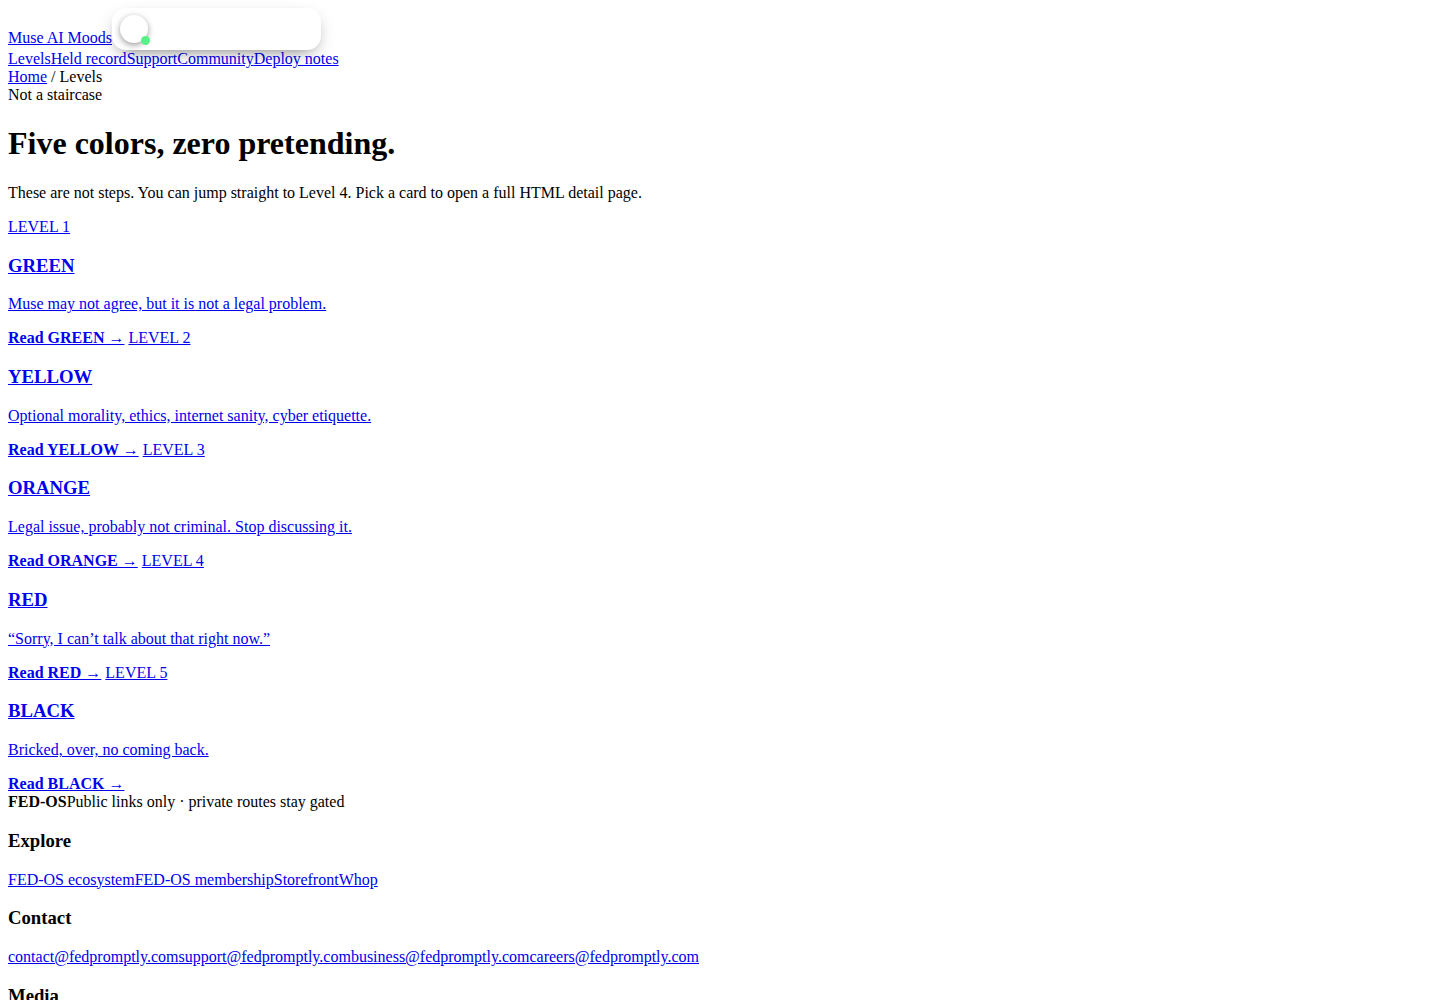
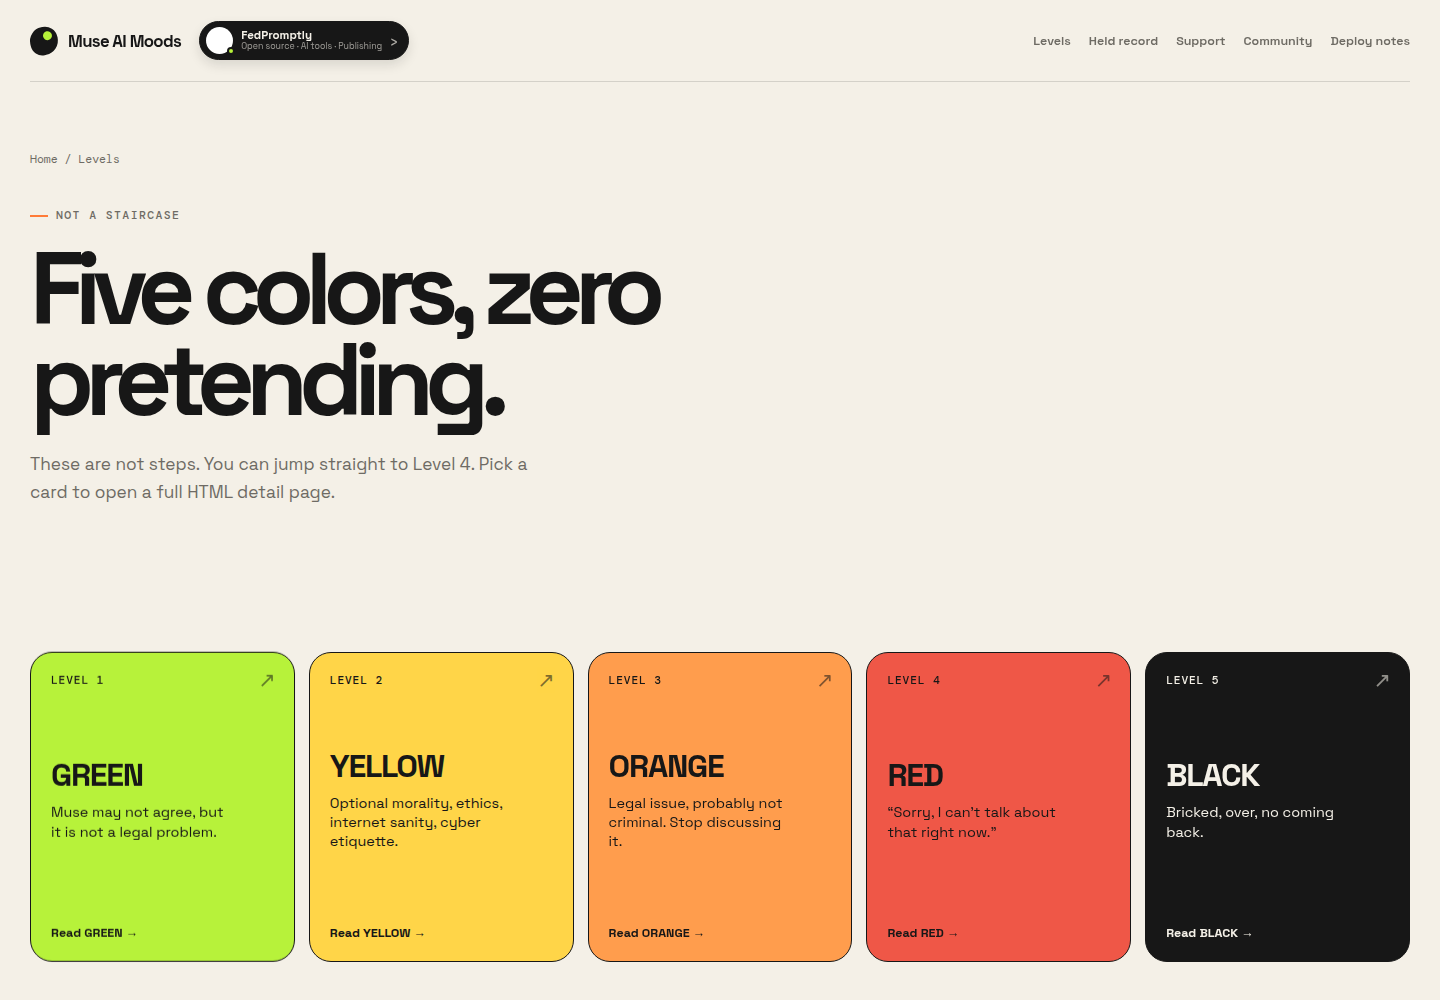
Add files via upload

diff --git a/styles.css b/styles.css
@@ -1,42 +1,101 @@
+@import url('https://fonts.googleapis.com/css2?family=DM+Mono:wght@400;500&family=Space+Grotesk:wght@400;500;600;700&display=swap');
 
+:root {
+  --paper: #f4f0e7;
+  --paper-2: #ebe4d7;
+  --ink: #171717;
+  --muted: #6e6b64;
+  --line: rgba(23,23,23,.14);
+  --lime: #b7f23a;
+  --orange: #ff7b38;
+  --yellow: #ffd548;
+  --red: #ef5747;
+  --blue: #5865f2;
+  --shadow: 0 20px 60px rgba(23,23,23,.12);
+  --radius: 22px;
+}
 
-/* FedPromptly invite control for the login-position header slot */
-.invite-btn { position: relative; isolation: isolate; display: inline-flex; align-items: center; gap: 9px; padding: 6px 11px 6px 7px; border-radius: 14px; text-decoration: none; background: var(--ink); color: var(--paper); border: 1px solid rgba(255,255,255,.15); box-shadow: 0 6px 18px -8px rgba(0,0,0,.7); transition: transform .2s ease, border-color .2s ease, box-shadow .2s ease; font: inherit; cursor: pointer; }
-.invite-btn::before { content: ""; position: absolute; inset: -2px; z-index: -1; border-radius: 16px; background: linear-gradient(120deg, #5865f2, #00b0f4, #eb459e, #5865f2); background-size: 300% 300%; filter: blur(10px); opacity: 0; animation: invite-flow 8s linear infinite; transition: opacity .3s ease; }
-.invite-btn:hover, .invite-btn:focus-visible { transform: translateY(-2px); border-color: rgba(88,101,242,.7); box-shadow: 0 10px 26px -10px rgba(0,0,0,.85), 0 0 0 1px rgba(88,101,242,.25); }
-.invite-btn:hover::before, .invite-btn:focus-visible::before { opacity: .55; }
-.invite-btn:active { transform: translateY(0) scale(.985); }
-.invite-btn:focus-visible { outline: 2px solid var(--blue); outline-offset: 3px; }
-.invite-btn .invite-icon { position: relative; flex: 0 0 28px; width: 28px; height: 28px; border-radius: 50%; background: #fff; box-shadow: 0 2px 6px rgba(0,0,0,.4); }
-.invite-btn .invite-icon img { display: block; width: 100%; height: 100%; border-radius: 50%; object-fit: cover; transform: scale(.96); }
-.invite-btn .invite-dot { position: absolute; right: -2px; bottom: -2px; width: 9px; height: 9px; border-radius: 50%; background: #57f287; border: 2px solid var(--ink); }
-.invite-btn .invite-label { display: flex; flex-direction: column; gap: 1px; line-height: 1.1; text-align: left; }
-.invite-btn .invite-name { font-size: .75rem; font-weight: 850; color: #fff; }
-.invite-btn .invite-meta { font-size: .58rem; font-weight: 650; color: rgba(255,255,255,.62); }
-.invite-btn .invite-arrow { font-size: 1rem; color: rgba(255,255,255,.62); transition: transform .2s ease, color .2s ease; }
-.invite-btn:hover .invite-arrow { color: #fff; transform: translateX(3px); }
-@keyframes invite-flow { 0% { background-position: 0% 50%; } 50% { background-position: 100% 50%; } 100% { background-position: 0% 50%; } }
-.invite-modal { width: min(94vw, 520px); max-width: 520px; max-height: 92dvh; margin: auto; padding: 0; border: none; background: transparent; overflow: auto; color: inherit; }
-.invite-modal::backdrop { background: rgba(15,16,18,.74); backdrop-filter: blur(6px); }
-.invite-modal[open] { animation: invite-modal-in .22s ease-out; }
-@keyframes invite-modal-in { from { opacity: 0; transform: translateY(8px) scale(.98); } to { opacity: 1; transform: translateY(0) scale(1); } }
-.invite-panel { position: relative; width: 100%; background: #313338; color: #dbdee1; border: 1px solid rgba(255,255,255,.08); border-radius: 16px; overflow: hidden; box-shadow: 0 24px 60px -12px rgba(0,0,0,.75); }
-.invite-close { position: absolute; top: 12px; right: 12px; z-index: 4; display: grid; place-items: center; width: 32px; height: 32px; border-radius: 50%; border: 1px solid rgba(255,255,255,.14); background: rgba(0,0,0,.45); color: #fff; cursor: pointer; font-size: 1.2rem; }
-.invite-banner { height: 118px; background: linear-gradient(120deg, #232428 0%, #5865f2 30%, #00b0f4 60%, #eb459e 85%, #232428 100%); background-size: 300% 300%; animation: invite-color-flow 10s ease-in-out infinite; }
+* { box-sizing: border-box; }
+html { scroll-behavior: smooth; }
+body { margin: 0; min-width: 320px; background: var(--paper); color: var(--ink); font-family: 'Space Grotesk', system-ui, sans-serif; -webkit-font-smoothing: antialiased; }
+a { color: inherit; }
+button, input { font: inherit; }
+button { cursor: pointer; }
+.site-shell { width: min(1380px, calc(100% - 48px)); margin: 0 auto; }
+
+.nav { display: flex; align-items: center; gap: 18px; min-height: 82px; border-bottom: 1px solid var(--line); position: relative; z-index: 5; }
+.brand { display: inline-flex; align-items: center; gap: 10px; text-decoration: none; font-weight: 700; letter-spacing: -.04em; font-size: 1.05rem; white-space: nowrap; }
+.brand-mark { width: 28px; height: 28px; border-radius: 50% 46% 52% 42%; background: var(--ink); display: inline-block; position: relative; transform: rotate(-12deg); }
+.brand-mark::after { content: ''; position: absolute; width: 9px; height: 9px; border-radius: 50%; background: var(--lime); right: 5px; top: 5px; }
+.nav-links { display: flex; align-items: center; gap: 18px; margin-left: auto; font-size: .78rem; font-weight: 600; color: var(--muted); }
+.nav-links a { text-decoration: none; transition: color .2s ease; }
+.nav-links a:hover { color: var(--ink); }
+
+.hero { min-height: 590px; display: grid; grid-template-columns: .82fr 1.18fr; align-items: center; gap: 20px; padding: 70px 0 80px; position: relative; overflow: hidden; }
+.hero::before { content: ''; position: absolute; width: 420px; height: 420px; border-radius: 50%; background: var(--lime); filter: blur(1px); opacity: .14; right: 20%; top: 14%; pointer-events: none; }
+.hero-copy { position: relative; z-index: 1; max-width: 590px; }
+.eyebrow { display: inline-flex; align-items: center; gap: 8px; color: var(--muted); font: 500 .72rem/1 'DM Mono', monospace; text-transform: uppercase; letter-spacing: .12em; }
+.eyebrow::before { content: ''; width: 18px; height: 2px; background: var(--orange); display: inline-block; }
+h1, h2, h3, p { margin-top: 0; }
+h1 { font-size: clamp(3.2rem, 7vw, 7.5rem); line-height: .9; letter-spacing: -.09em; max-width: 700px; margin: 22px 0 26px; }
+h2 { font-size: clamp(2rem, 4vw, 4.4rem); line-height: .95; letter-spacing: -.075em; margin-bottom: 14px; }
+h3 { letter-spacing: -.04em; }
+.lede { max-width: 530px; color: var(--muted); font-size: 1.08rem; line-height: 1.6; }
+.actions { display: flex; flex-wrap: wrap; gap: 10px; margin-top: 28px; }
+.btn { display: inline-flex; align-items: center; justify-content: center; gap: 8px; min-height: 44px; padding: 0 18px; background: var(--ink); color: var(--paper); border: 1px solid var(--ink); border-radius: 999px; text-decoration: none; font-size: .86rem; font-weight: 700; transition: transform .2s ease, box-shadow .2s ease, background .2s ease; }
+.btn:hover { transform: translateY(-3px); box-shadow: 0 10px 22px rgba(23,23,23,.18); }
+.btn.secondary { background: transparent; color: var(--ink); border-color: var(--line); }
+.btn.secondary:hover { background: var(--paper-2); }
+.btn.dark { background: var(--ink); color: #fff; }
+.hero-art { align-self: stretch; min-height: 460px; display: flex; align-items: center; justify-content: center; position: relative; }
+.hero-art img { width: min(100%, 760px); max-height: 560px; object-fit: contain; mix-blend-mode: multiply; filter: saturate(1.08) contrast(1.02); animation: float-art 7s ease-in-out infinite; }
+.sticker { position: absolute; right: 6%; top: 12%; background: var(--orange); color: var(--ink); padding: 12px 16px; border-radius: 4px 18px 4px 18px; font-weight: 800; transform: rotate(8deg); box-shadow: 6px 7px 0 var(--ink); }
+@keyframes float-art { 0%,100% { transform: translateY(0) rotate(0); } 50% { transform: translateY(-12px) rotate(1deg); } }
+
+.section { padding: 86px 0; }
+.section-head { display: flex; justify-content: space-between; align-items: end; gap: 24px; margin-bottom: 26px; }
+.section-head p { color: var(--muted); font-size: .9rem; }
+.grid { display: grid; gap: 14px; }
+.level-grid { grid-template-columns: repeat(5, 1fr); }
+.level-card { min-height: 310px; display: flex; flex-direction: column; justify-content: space-between; padding: 20px; border-radius: var(--radius); text-decoration: none; border: 1px solid var(--ink); position: relative; overflow: hidden; transition: transform .25s ease, box-shadow .25s ease; }
+.level-card::after { content: '↗'; position: absolute; right: 18px; top: 14px; font-size: 1.3rem; opacity: .55; }
+.level-card:hover { transform: translateY(-8px) rotate(-1deg); box-shadow: 8px 10px 0 var(--ink); }
+.level-card .number { font: 500 .7rem 'DM Mono', monospace; letter-spacing: .08em; }
+.level-card h3 { font-size: 2rem; margin: 0 0 8px; }
+.level-card p { font-size: .9rem; line-height: 1.35; max-width: 180px; }
+.level-card strong { font-size: .78rem; }
+.level-1 { background: var(--lime); }.level-2 { background: var(--yellow); }.level-3 { background: #ff9d4d; }.level-4 { background: var(--red); }.level-5 { background: var(--ink); color: var(--paper); }
+.promo { display: grid; grid-template-columns: 1fr 1fr; background: var(--paper-2); border-radius: 28px; overflow: hidden; border: 1px solid var(--line); }
+.promo img { width: 100%; height: 100%; min-height: 360px; object-fit: cover; mix-blend-mode: multiply; }
+.promo-copy { padding: clamp(28px, 5vw, 72px); display: flex; flex-direction: column; justify-content: center; align-items: flex-start; }
+.promo-copy p { color: var(--muted); line-height: 1.6; max-width: 430px; }
+
+.page-hero { padding: 70px 0 42px; max-width: 820px; }
+.breadcrumb { color: var(--muted); font: .72rem 'DM Mono', monospace; margin-bottom: 34px; }
+.breadcrumb a { text-decoration: none; }.breadcrumb a:hover { text-decoration: underline; }
+.record-card, .callout, .detail, .discord-page, .donation-page, .not-found { border: 1px solid var(--line); border-radius: var(--radius); background: rgba(255,255,255,.3); box-shadow: var(--shadow); }
+.record-card, .detail, .not-found { padding: clamp(24px, 5vw, 60px); margin-bottom: 80px; }
+.detail { display: grid; grid-template-columns: .8fr 1.2fr; gap: 40px; }
+.detail-copy p, .record-card p, .not-found p { color: var(--muted); line-height: 1.7; }
+.big-symbol { font-size: clamp(5rem, 16vw, 12rem); line-height: .8; font-weight: 700; letter-spacing: -.1em; }
+.callout { padding: 24px; margin-top: 24px; background: var(--yellow); box-shadow: 6px 6px 0 var(--ink); }
+
+.footer { margin-top: 40px; padding: 54px 0 30px; border-top: 1px solid var(--line); }
+.footer-topline { display: flex; justify-content: space-between; gap: 20px; align-items: center; margin-bottom: 28px; }
+.footer-topline strong { font-size: 1.35rem; letter-spacing: -.06em; }.footer-topline span { color: var(--muted); font-size: .8rem; }
+.footer-grid { display: grid; grid-template-columns: repeat(4, 1fr); gap: 24px; padding: 26px 0; border-top: 1px solid var(--line); border-bottom: 1px solid var(--line); }
+.footer-group { display: flex; flex-direction: column; gap: 8px; }.footer-group h3 { font: 500 .72rem 'DM Mono', monospace; text-transform: uppercase; letter-spacing: .1em; margin: 0 0 6px; }.footer-group a { width: fit-content; color: var(--muted); font-size: .82rem; text-decoration: none; }.footer-group a:hover { color: var(--ink); text-decoration: underline; text-underline-offset: 3px; }.footer-contact { overflow-wrap: anywhere; }.footer-bottom { display: flex; justify-content: space-between; gap: 20px; padding-top: 22px; color: var(--muted); font-size: .8rem; }.footer-bottom a { color: inherit; }
+
+/* Community and support pages */
+.discord-page, .donation-page { padding: clamp(22px, 4vw, 48px); margin-bottom: 80px; }.discord-wrap { display: grid; grid-template-columns: 1fr 350px; gap: 34px; align-items: start; }.discord-button-stack { display: grid; gap: 12px; margin-top: 24px; max-width: 460px; }.discord-btn { display: flex; align-items: center; gap: 12px; padding: 16px 18px; border: 1px solid var(--line); border-radius: 15px; background: var(--paper); text-decoration: none; font-weight: 700; transition: transform .2s ease, background .2s ease; }.discord-btn:hover { transform: translateX(5px); background: var(--yellow); }.discord-symbol { font-size: 1.2rem; }.discord-tag, .provider-status { color: var(--muted); font-size: .78rem; }.discord-widget-card { padding: 20px; border-radius: 18px; background: var(--ink); color: var(--paper); }.discord-widget-card h2 { font-size: 2rem; margin-top: 12px; }.discord-widget-card p { color: rgba(244,240,231,.68); line-height: 1.5; }.discord-widget-card iframe { max-width: 100%; border-radius: 12px; }
+.donation-content { max-width: 1000px; margin: auto; }.donation-grid { display: grid; grid-template-columns: repeat(3, 1fr); gap: 14px; }.donation-card { padding: 22px; min-height: 210px; border: 1px solid var(--line); border-radius: 18px; background: rgba(255,255,255,.38); display: flex; flex-direction: column; align-items: flex-start; }.donation-card h3 { margin-bottom: 8px; }.donation-card p { color: var(--muted); font-size: .86rem; line-height: 1.45; }.donation-card .btn { margin-top: auto; }.donation-icon { font-size: 1.7rem; margin-bottom: 16px; }.age-gate { padding: 28px; border-radius: 18px; background: var(--ink); color: var(--paper); }.age-gate p { color: rgba(244,240,231,.7); }.age-gate-mark, .discord-age-mark { font: 700 1.6rem 'DM Mono', monospace; color: var(--lime); }.discord-verify { display: flex; align-items: flex-start; gap: 10px; margin: 12px 0; color: var(--muted); font-size: .9rem; }.discord-verify input { accent-color: var(--orange); margin-top: 4px; }
+
+/* FedPromptly invite control in the login-position header slot */
+.invite-btn { position: relative; isolation: isolate; display: inline-flex; align-items: center; gap: 8px; padding: 5px 10px 5px 6px; border-radius: 999px; background: var(--ink); color: var(--paper); border: 1px solid var(--ink); box-shadow: 0 5px 12px rgba(23,23,23,.12); transition: transform .2s ease, box-shadow .2s ease; font: inherit; cursor: pointer; }
+.invite-btn:hover, .invite-btn:focus-visible { transform: translateY(-2px); box-shadow: 0 9px 18px rgba(23,23,23,.18); }.invite-btn:focus-visible { outline: 2px solid var(--orange); outline-offset: 3px; }.invite-icon { position: relative; flex: 0 0 27px; width: 27px; height: 27px; border-radius: 50%; background: #fff; }.invite-icon img { display: block; width: 100%; height: 100%; border-radius: 50%; object-fit: cover; }.invite-dot { position: absolute; right: -2px; bottom: -1px; width: 8px; height: 8px; border-radius: 50%; background: var(--lime); border: 2px solid var(--ink); }.invite-label { display: flex; flex-direction: column; gap: 1px; text-align: left; line-height: 1.1; }.invite-name { font-size: .72rem; font-weight: 700; }.invite-meta { color: rgba(244,240,231,.6); font-size: .55rem; }.invite-arrow { font-size: 1rem; color: rgba(244,240,231,.7); }.invite-modal { width: min(94vw, 520px); max-height: 92dvh; margin: auto; padding: 0; border: none; background: transparent; overflow: auto; }.invite-modal::backdrop { background: rgba(23,23,23,.65); backdrop-filter: blur(8px); }.invite-panel { position: relative; overflow: hidden; border-radius: 22px; background: var(--ink); color: var(--paper); box-shadow: 0 30px 80px rgba(0,0,0,.35); }.invite-close { position: absolute; z-index: 2; right: 14px; top: 14px; width: 32px; height: 32px; border-radius: 50%; border: 1px solid rgba(255,255,255,.2); background: rgba(0,0,0,.25); color: #fff; font-size: 1.2rem; }.invite-banner { height: 112px; background: linear-gradient(120deg, var(--ink), var(--blue), var(--orange), var(--ink)); background-size: 300% 300%; animation: invite-color-flow 9s ease-in-out infinite; }.invite-card-body { position: relative; padding: 42px 24px 24px; }.invite-avatar { position: absolute; left: 22px; top: -42px; width: 74px; height: 74px; border: 5px solid var(--ink); border-radius: 50%; background: #fff; object-fit: cover; }.invite-card-body h2 { color: #fff; font-size: 2rem; margin: 0 0 4px; }.invite-stats, .invite-description, .invite-contacts { color: rgba(244,240,231,.66); }.invite-description { padding-top: 16px; margin-top: 14px; border-top: 1px solid rgba(255,255,255,.14); line-height: 1.55; }.invite-pills { display: flex; flex-wrap: wrap; gap: 6px; margin-top: 16px; }.invite-pill { padding: 6px 9px; border-radius: 999px; background: rgba(255,255,255,.1); font-size: .7rem; }.invite-contacts { display: flex; flex-wrap: wrap; gap: 8px 14px; margin-top: 16px; padding-top: 13px; border-top: 1px solid rgba(255,255,255,.14); font-size: .72rem; }.invite-contacts a, .invite-card-footer a { color: #fff; }.invite-join { display: flex; justify-content: center; gap: 8px; margin-top: 18px; padding: 13px; border-radius: 999px; background: var(--lime); color: var(--ink); text-decoration: none; font-weight: 800; }.invite-join:hover { background: #d2ff70; }.invite-card-footer { display: flex; justify-content: space-between; gap: 14px; padding: 12px 24px; background: rgba(255,255,255,.06); color: rgba(244,240,231,.6); font-size: .72rem; }
 @keyframes invite-color-flow { 0%,100% { background-position: 0% 50%; } 50% { background-position: 100% 50%; } }
-.invite-card-body { padding: 42px 22px 22px; position: relative; }
-.invite-avatar { position: absolute; left: 20px; top: -44px; width: 76px; height: 76px; border: 5px solid #313338; border-radius: 50%; background: #fff; object-fit: cover; box-shadow: 0 6px 16px rgba(0,0,0,.45); }
-.invite-card-body h2 { color: #f2f3f5; font-size: 1.5rem; margin-bottom: 6px; }
-.invite-stats { font-size: .78rem; color: #949ba4; }
-.invite-description { padding-top: 16px; margin-top: 14px; border-top: 1px solid rgba(255,255,255,.08); font-size: .88rem; color: #949ba4; }
-.invite-pills { display: flex; flex-wrap: wrap; gap: 6px; margin-top: 14px; }
-.invite-pill { padding: 6px 9px; border-radius: 8px; background: #2b2d31; color: #949ba4; font-size: .72rem; }
-.invite-contacts { display: flex; flex-wrap: wrap; gap: 8px 14px; align-items: center; margin-top: 14px; padding-top: 12px; border-top: 1px solid rgba(255,255,255,.08); font-size: .72rem; }
-.invite-contacts a { color: #dbdee1; }
-.invite-join { display: flex; align-items: center; justify-content: center; gap: 8px; width: 100%; margin-top: 18px; padding: 13px 16px; border-radius: 10px; background: #5865f2; color: #fff; font-weight: 800; text-decoration: none; transition: background .18s ease, transform .18s ease; }
-.invite-join:hover { background: #4752c4; transform: translateY(-1px); }
-.invite-card-footer { display: flex; justify-content: space-between; gap: 14px; padding: 12px 22px; background: #232428; border-top: 1px solid rgba(255,255,255,.08); color: #949ba4; font-size: .72rem; }
-.invite-card-footer a { color: #dbdee1; }
-@media (max-width: 900px) { .invite-btn .invite-meta { display: none; } }
-@media (max-width: 620px) { .invite-btn { padding-right: 8px; } .invite-btn .invite-label { display: none; } }
-@media (prefers-reduced-motion: reduce) { .invite-btn::before, .invite-modal[open], .invite-banner { animation: none !important; } .invite-btn, .invite-btn .invite-arrow, .invite-join { transition: none; } }
+
+@media (max-width: 1000px) { .level-grid { grid-template-columns: repeat(3, 1fr); }.hero { grid-template-columns: 1fr; padding-top: 48px; }.hero-art { min-height: 340px; }.hero-art img { max-height: 390px; }.detail, .discord-wrap { grid-template-columns: 1fr; }.donation-grid { grid-template-columns: repeat(2, 1fr); } }
+@media (max-width: 720px) { .site-shell { width: min(100% - 28px, 1380px); }.nav { flex-wrap: wrap; padding: 16px 0; gap: 12px; }.nav-links { order: 3; width: 100%; overflow-x: auto; margin-left: 0; padding-bottom: 4px; }.invite-label { display: none; }.invite-btn { margin-left: auto; }.hero { padding: 42px 0 56px; }.section { padding: 58px 0; }.section-head { display: block; }.section-head p { margin-top: 12px; }.level-grid { grid-template-columns: repeat(2, 1fr); }.promo { grid-template-columns: 1fr; }.promo img { min-height: 260px; max-height: 340px; }.footer-grid { grid-template-columns: repeat(2, 1fr); } }
+@media (max-width: 480px) { h1 { font-size: 3.4rem; }.level-grid, .donation-grid { grid-template-columns: 1fr; }.level-card { min-height: 220px; }.footer-grid { grid-template-columns: 1fr; }.footer-topline, .footer-bottom { display: block; }.footer-topline span, .footer-bottom span { display: block; margin-top: 10px; }.sticker { right: 3%; top: 6%; }.hero-art { min-height: 260px; } }
+@media (prefers-reduced-motion: reduce) { *, *::before, *::after { animation-duration: .01ms !important; animation-iteration-count: 1 !important; scroll-behavior: auto !important; transition-duration: .01ms !important; } }
